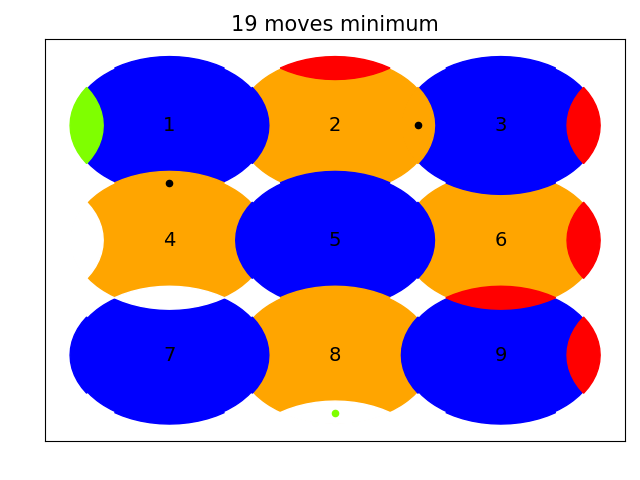
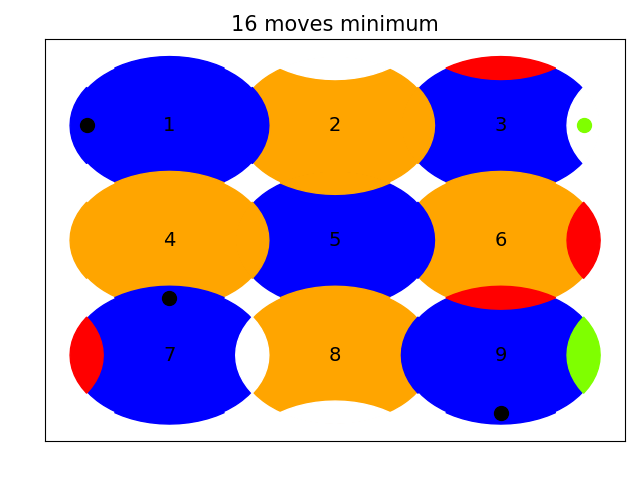
new puzzles + slight changes

diff --git a/routation_puzzle_generator.py b/routation_puzzle_generator.py
@@ -4,6 +4,7 @@ from matplotlib.patches import Circle
 from shapely.geometry import Point
 import random
 from collections import deque
+import os
 #TODO
 #1: implement a heuristic to decrease runtime
 #then push to github
@@ -11,16 +12,20 @@ from collections import deque
 
 
 show_each_step = 0
-num_bad_holes = 3
-num_red_pieces = 0
+num_bad_holes = 1
+num_red_pieces = 2
 randomize_num_holes_and_pieces = True
-min_sol_steps = 15
+min_sol_steps = 18
 max_sol_steps = 99
 num_rows = 3
 num_cols = 3
 
 write_to_file = 1
-puzzle_num = 19  #only matters if writing to file
+puzzle_num = 30  #only matters if writing to file
+if os.path.exists(f"sample_puzzles/puzzle{puzzle_num}.png") or os.path.exists(f"sample_solutions/sol{puzzle_num}.txt"):
+    print("Error - path already exists.")
+    assert(False)
+
 gears = [np.array([0,0,0,0]),
          np.array([1,0,0,0]),
          np.array([1,0,0,0]),
@@ -258,27 +263,31 @@ def piece_fell(grid, holes, destination):
                 return True
     return False
 
+def add_next_grids(grid, current_grid,checked_grids, q, move_history):
+    rotations = [1,-1]
+    for row in range(1, grid.shape[0] - 1):
+        for col in range(1, grid.shape[1] - 1):
+            if gear_locked(current_grid, row, col):
+                continue
+            for direction in rotations:
+                new_grid = rotate_gear(current_grid, row, col, direction)
+                new_grid_bytes = new_grid.tobytes()
+                if (new_grid_bytes not in checked_grids) and not piece_fell(new_grid, holes, destination):
+                    new_move_history = move_history + [(row, col, direction)]
+                    checked_grids.add(new_grid_bytes)
+                    q.append((new_grid, new_move_history))
+    return (checked_grids, q)
+
 def solve_grid(grid):
     q = deque([(grid, [])])    
     checked_grids = {grid.tobytes()}
-    rotations = [1,-1]
     while q:
         current_grid, move_history = q.popleft()
         if solution_satisfied(current_grid, destination):
             return current_grid, move_history
         if len(move_history) >= max_sol_steps:
             continue
-        for row in range(1, grid.shape[0] - 1):
-            for col in range(1, grid.shape[1] - 1):
-                if gear_locked(current_grid, row, col):
-                    continue
-                for direction in rotations:
-                    new_grid = rotate_gear(current_grid, row, col, direction)
-                    new_grid_bytes = new_grid.tobytes()
-                    if (new_grid_bytes not in checked_grids) and not piece_fell(new_grid, holes, destination):
-                        new_move_history = move_history + [(row, col, direction)]
-                        checked_grids.add(new_grid_bytes)
-                        q.append((new_grid, new_move_history))
+        checked_grids, q = add_next_grids(grid, current_grid,checked_grids, q, move_history)
     # if this point is reached, there is no valid solution.
     return (None, None)
 

diff --git a/routation_solver.py b/routation_solver.py
@@ -201,28 +201,33 @@ def piece_fell(grid, holes, destination):
                 return True
     return False
 
+def add_next_grids(grid, current_grid,checked_grids, q, move_history):
+    rotations = [1,-1]
+    for row in range(1, grid.shape[0] - 1):
+        for col in range(1, grid.shape[1] - 1):
+            if gear_locked(current_grid, row, col):
+                continue
+            for direction in rotations:
+                new_grid = rotate_gear(current_grid, row, col, direction)
+                new_grid_bytes = new_grid.tobytes()
+                if (new_grid_bytes not in checked_grids) and not piece_fell(new_grid, holes, destination):
+                    new_move_history = move_history + [(row, col, direction)]
+                    checked_grids.add(new_grid_bytes)
+                    q.append((new_grid, new_move_history))
+    return (checked_grids, q)
+
 def solve_grid(grid):
     q = deque([(grid, [])])    
     checked_grids = {grid.tobytes()}
-    rotations = [1,-1]
     while q:
         current_grid, move_history = q.popleft()
         if solution_satisfied(current_grid, destination):
             return current_grid, move_history
-        for row in range(1, grid.shape[0] - 1):
-            for col in range(1, grid.shape[1] - 1):
-                if gear_locked(current_grid, row, col):
-                    continue
-                for direction in rotations:
-                    new_grid = rotate_gear(current_grid, row, col, direction)
-                    new_grid_bytes = new_grid.tobytes()
-                    if (new_grid_bytes not in checked_grids) and not piece_fell(new_grid, holes, destination):
-                        new_move_history = move_history + [(row, col, direction)]
-                        checked_grids.add(new_grid_bytes)
-                        q.append((new_grid, new_move_history))
+        checked_grids, q = add_next_grids(grid, current_grid,checked_grids, q, move_history)
     # if this point is reached, there is no valid solution.
     print("no solution found. Ending program.")
     assert(False)
+
 if pieces_provided_seperately:
     grid = add_pieces(grid)
 sol_grid, move_history = solve_grid(grid)
